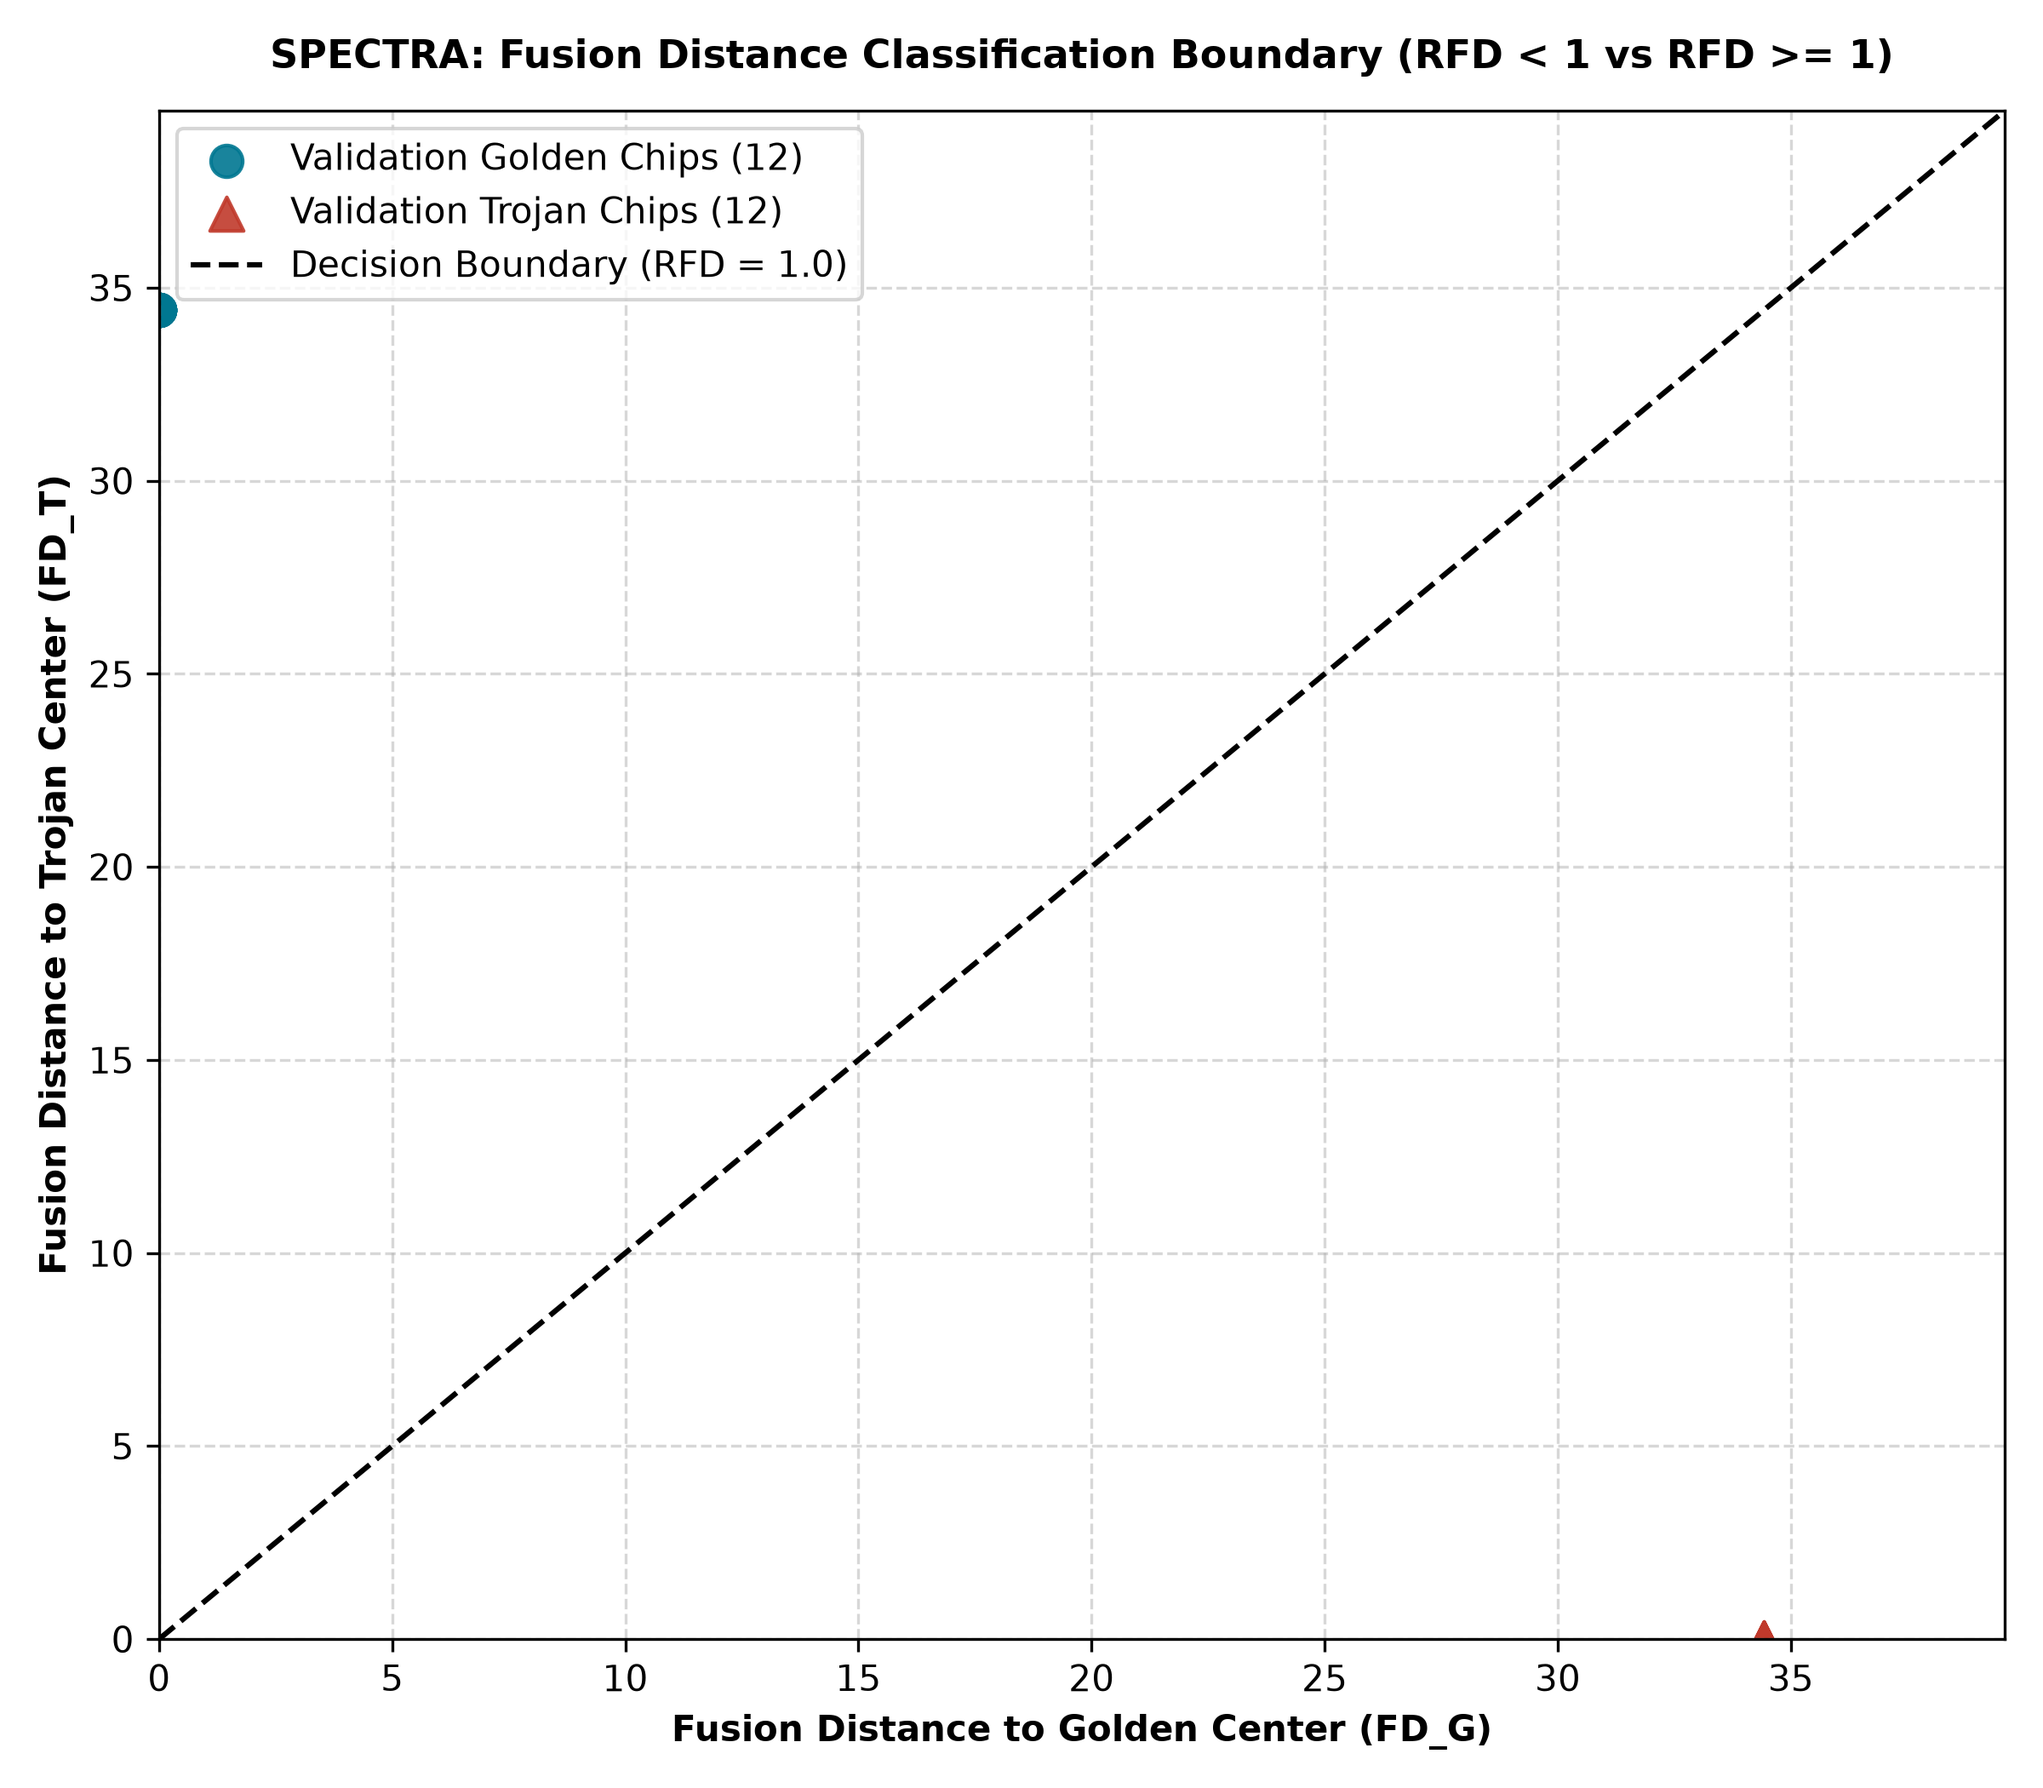
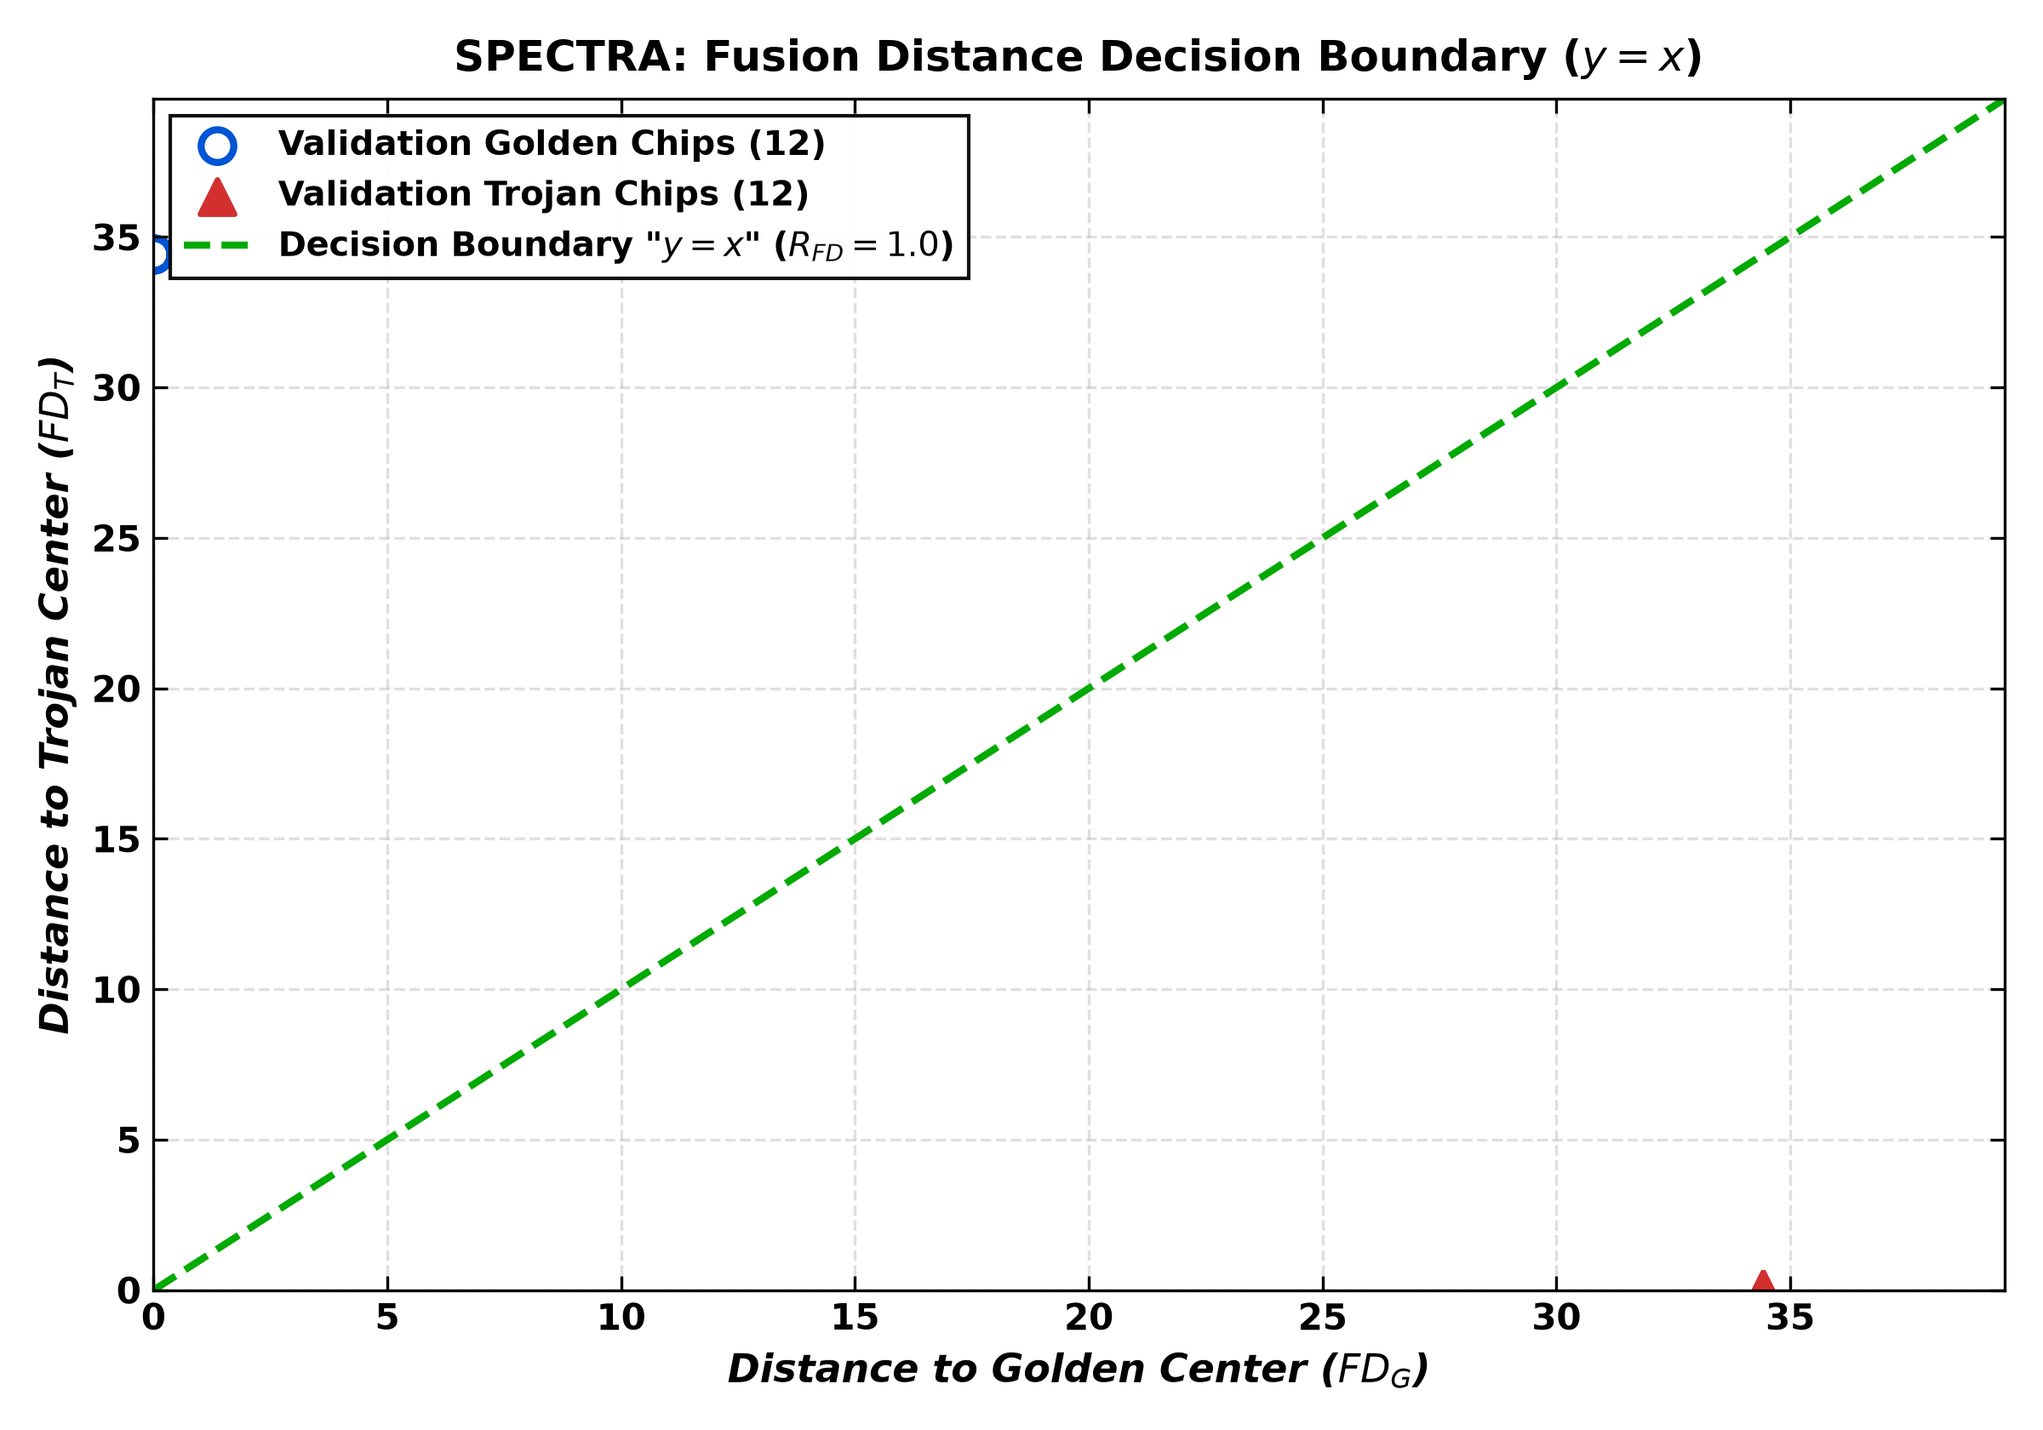
feat(eval): maximize fusion distance decision boundary plot aspect ratio (1.43:1) and typography

diff --git a/scripts/04_fusion_classifier.py b/scripts/04_fusion_classifier.py
@@ -154,24 +154,43 @@ print(f"[+] Saved detection report to {REPORTS_DIR / 'detection_report.json'}")
 fd_g_arr = np.array(fd_g_list)
 fd_t_arr = np.array(fd_t_list)
 
-plt.figure(figsize=(8, 7), dpi=300)
-plt.scatter(fd_g_arr[true_labels == 0], fd_t_arr[true_labels == 0], c='#007791', marker='o', s=80, label='Validation Golden Chips (12)', alpha=0.9)
-plt.scatter(fd_g_arr[true_labels == 1], fd_t_arr[true_labels == 1], c='#C0392B', marker='^', s=90, label='Validation Trojan Chips (12)', alpha=0.9)
+fig, ax = plt.subplots(figsize=(8.0, 5.6), dpi=300)
+
+# Golden Chips: Open blue circles
+ax.scatter(fd_g_arr[true_labels == 0], fd_t_arr[true_labels == 0],
+           facecolors='none', edgecolors='#0055D4', marker='o', s=85,
+           linewidth=2.0, label='Validation Golden Chips (12)')
+
+# Trojan Chips: Solid red triangles
+ax.scatter(fd_g_arr[true_labels == 1], fd_t_arr[true_labels == 1],
+           c='#D32F2F', marker='^', s=95,
+           linewidth=1.5, label='Validation Trojan Chips (12)')
 
 # Decision Boundary: RFD = FD_G / FD_T = 1 => FD_T = FD_G (y = x line)
 max_val = max(np.max(fd_g_arr), np.max(fd_t_arr)) * 1.15
-plt.plot([0, max_val], [0, max_val], 'k--', linewidth=1.5, label='Decision Boundary (RFD = 1.0)')
+boundary_vals = np.linspace(0, max_val, 100)
+ax.plot(boundary_vals, boundary_vals, color='#00AA00', linestyle='--', linewidth=2.0,
+        label='Decision Boundary "$y=x$" ($R_{FD} = 1.0$)')
 
-plt.title("SPECTRA: Fusion Distance Classification Boundary (RFD < 1 vs RFD >= 1)", fontsize=11, fontweight='bold', pad=12)
-plt.xlabel("Fusion Distance to Golden Center (FD_G)", fontsize=10, fontweight='bold')
-plt.ylabel("Fusion Distance to Trojan Center (FD_T)", fontsize=10, fontweight='bold')
-plt.xlim(0, max_val)
-plt.ylim(0, max_val)
-plt.grid(True, linestyle="--", alpha=0.5)
-plt.legend(loc="upper left", frameon=True)
+ax.set_title("SPECTRA: Fusion Distance Decision Boundary ($y=x$)", fontsize=12, fontweight='bold', pad=8)
+ax.set_xlabel("Distance to Golden Center ($FD_G$)", fontsize=11, fontweight='bold', fontstyle='italic', labelpad=4)
+ax.set_ylabel("Distance to Trojan Center ($FD_T$)", fontsize=11, fontweight='bold', fontstyle='italic', labelpad=4)
+ax.set_xlim(0, max_val)
+ax.set_ylim(0, max_val)
+
+for tick in ax.get_xticklabels() + ax.get_yticklabels():
+    tick.set_fontweight('bold')
+    tick.set_fontsize(10)
+
+ax.tick_params(direction='in', top=True, right=True, length=4, width=0.8)
+ax.grid(True, linestyle="--", alpha=0.4)
+leg = ax.legend(loc="upper left", frameon=True, framealpha=0.95, edgecolor='black', fancybox=False, fontsize=9.5)
+for text in leg.get_texts():
+    text.set_fontweight('bold')
+
 plt.tight_layout()
 
 screenshot_path = SCREENSHOTS_DIR / "fusion_distance_classification.png"
-plt.savefig(screenshot_path, dpi=300)
-plt.close()
+fig.savefig(screenshot_path, dpi=300)
+plt.close(fig)
 print(f"[+] Saved decision boundary classification plot to {screenshot_path}")
